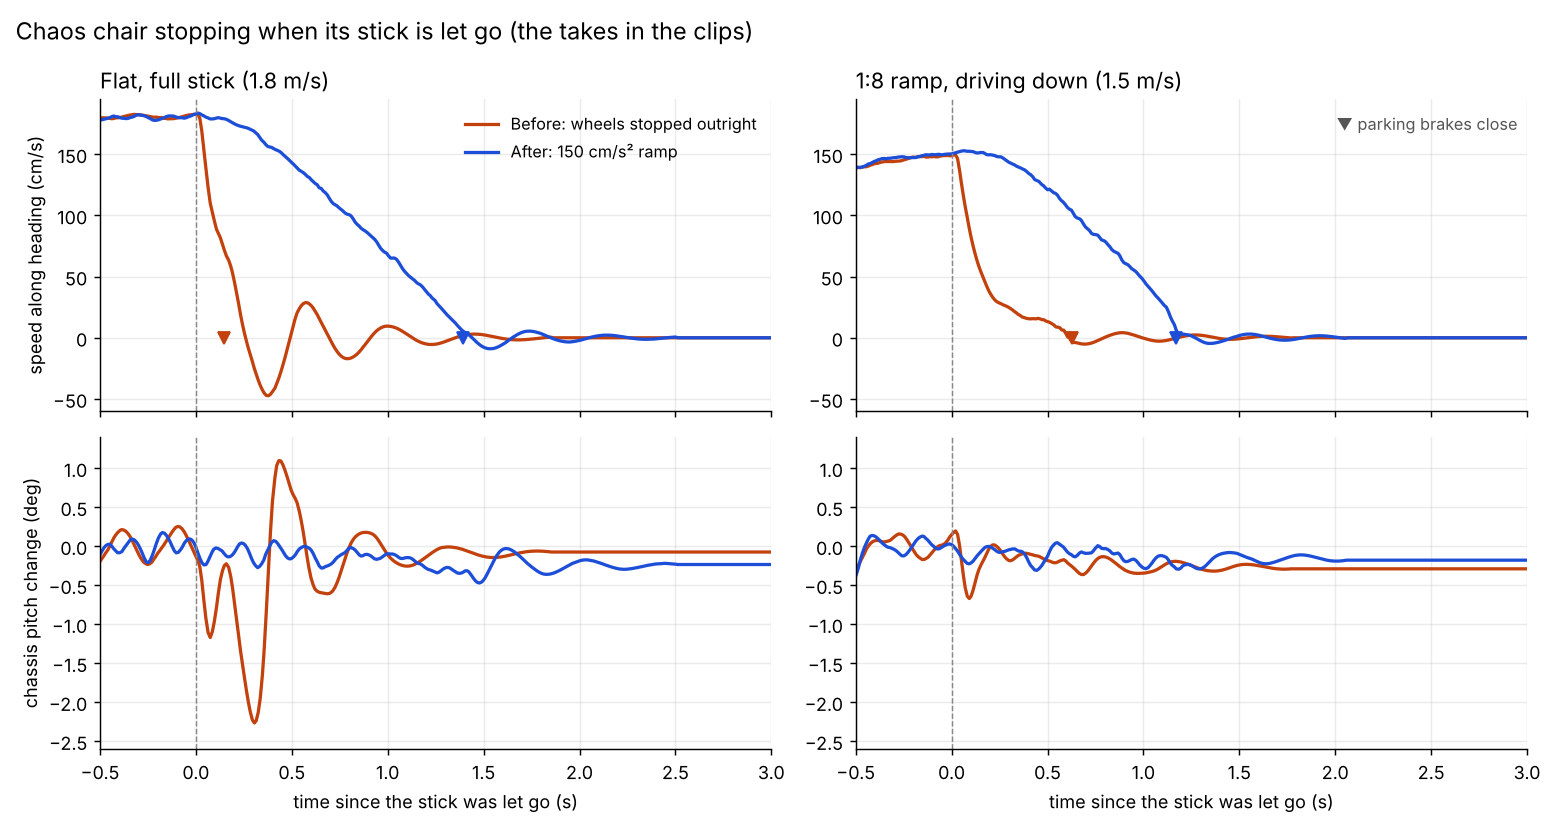
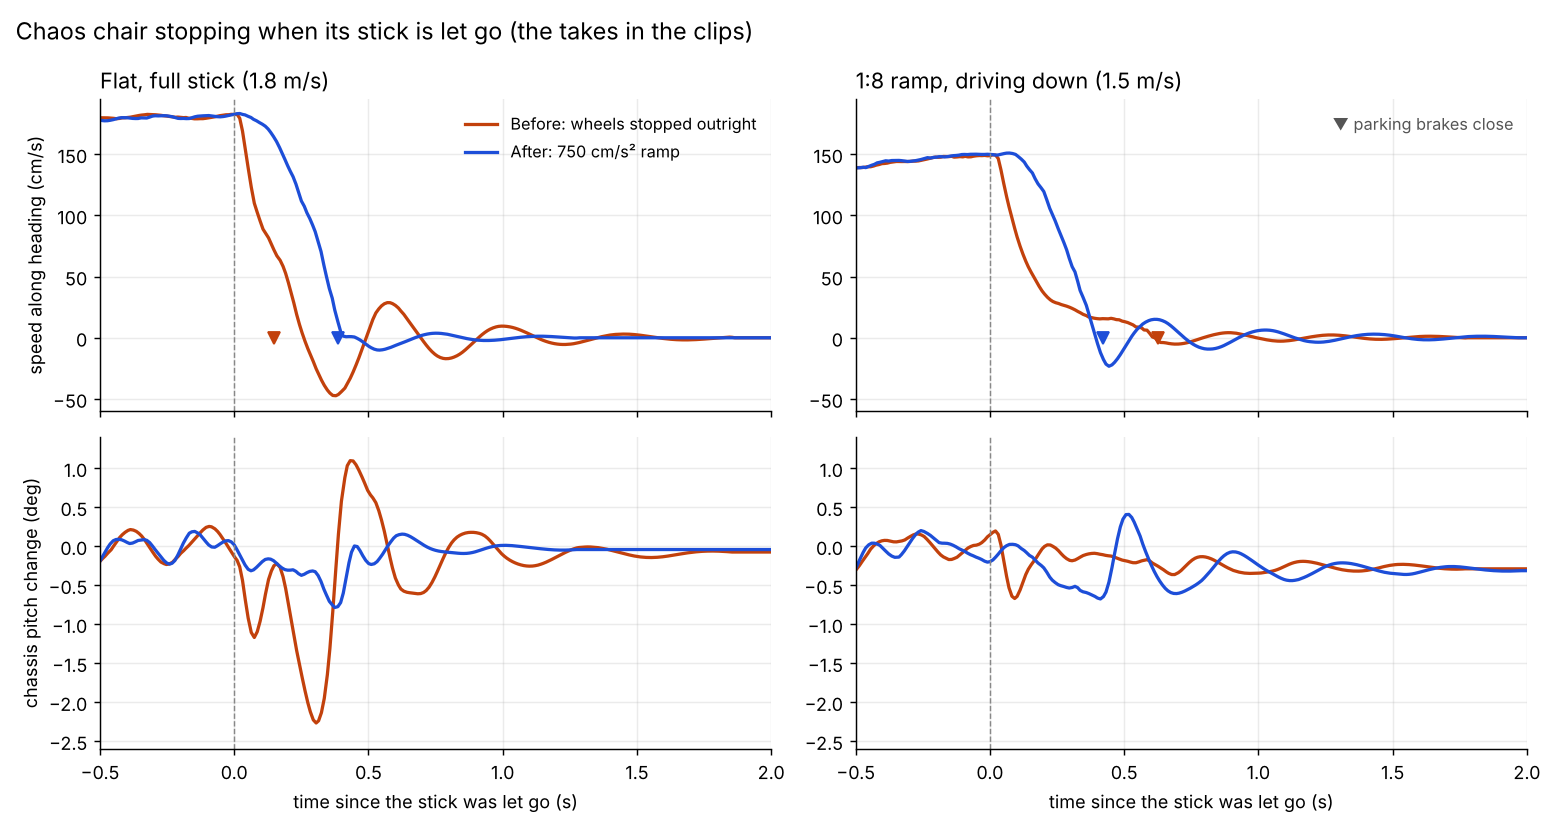
test(chaos_brake): set any controller property for a run; clips and chart at the 750 cm/s^2 default
run(props={"BrakeRampInSeconds": 0.1, ...}) sets any float property of the controller, by its C++
name, without an edit notification, as the deceleration already was. The "after" clips and the
speed/pitch chart are re-recorded at ramms-core#53's new defaults (750 cm/s^2 over 0.1 s).

Claude-Session: https://claude.ai/code/session_01SgnbqZ52G1jAo6g2kwYe2m

diff --git a/Scripts/pie_tests/base_component/chaos_brake.py b/Scripts/pie_tests/base_component/chaos_brake.py
@@ -109,19 +109,24 @@ def summarise(name, kind, speed, s):
             "tick_hz": round((len(t) - 1) / (t[-1] - t[0]), 1) if len(t) > 1 and t[-1] > t[0] else None}
 
 
-def _set_decel(dd, value):
-    """BrakeDeceleration on the chair's controller, without an edit notification: one reruns the
-    pawn's construction script mid-PIE, which drops its seated operator and replaces the
-    controller. Through Python where its wrapper knows the property, else the engine's `set`
-    command (every RammsDifferentialDriveController)."""
-    for prop in ("brake_deceleration", "BrakeDeceleration"):
+def _set_prop(dd, name, value):
+    """A float property of the chair's controller (its C++ name), without an edit notification:
+    one reruns the pawn's construction script mid-PIE, which drops its seated operator and
+    replaces the controller. Through Python where its wrapper knows the property, else the
+    engine's `set` command (every RammsDifferentialDriveController)."""
+    snake = "".join("_" + c.lower() if c.isupper() else c for c in name).lstrip("_")
+    for prop in (snake, name):
         try:
             dd.set_editor_property(prop, float(value), unreal.PropertyAccessChangeNotifyMode.NEVER)
             return "property"
         except Exception:  # noqa: BLE001 -- a wrapper generated before the property existed
             pass
-    unreal.SystemLibrary.execute_console_command(dd, "set RammsDifferentialDriveController BrakeDeceleration %g" % float(value))
+    unreal.SystemLibrary.execute_console_command(dd, "set RammsDifferentialDriveController %s %g" % (name, float(value)))
     return "console set"
+
+
+def _set_decel(dd, value):
+    return _set_prop(dd, "BrakeDeceleration", value)
 
 
 CAM_TAG = "ramms_brake_cam"
@@ -154,7 +159,7 @@ def _setup_capture(w):
     return sc, rt
 
 
-def run(cases=None, out=None, decel=None, frames=None, fps=FRAME_FPS, max_fps=None, on_done=None):
+def run(cases=None, out=None, decel=None, frames=None, fps=FRAME_FPS, max_fps=None, props=None, on_done=None):
     les = unreal.get_editor_subsystem(unreal.LevelEditorSubsystem)
     ues = unreal.get_editor_subsystem(unreal.UnrealEditorSubsystem)
     cases = (cases or getattr(unreal, "_ramms_brake_cases", "") or "flat100 flat50 down50").split()
@@ -255,6 +260,8 @@ def run(cases=None, out=None, decel=None, frames=None, fps=FRAME_FPS, max_fps=No
                 S["w"], S["p"] = cs_common.find_chaos_pawn()
                 S["dd"] = dd = S["p"].get_component_by_class(unreal.RammsDifferentialDriveController)
                 how = _set_decel(dd, decel) if decel is not None else None
+                for k, val in (props or {}).items():   # other controller settings, by C++ name
+                    _set_prop(dd, k, val)
                 if max_fps:
                     unreal.SystemLibrary.execute_console_command(w, "t.MaxFPS %d" % int(max_fps))
                 S["config"] = {k: (round(float(dd.get_editor_property(k)), 3) if dd and _has(dd, k) else None)
@@ -262,6 +269,8 @@ def run(cases=None, out=None, decel=None, frames=None, fps=FRAME_FPS, max_fps=No
                 S["config"]["control_mode"] = str(dd.get_editor_property("control_mode")) if dd else None
                 if decel is not None:
                     S["config"].update(brake_deceleration_set=float(decel), set_by=how)
+                if props:
+                    S["config"]["props_set"] = dict(props)
                 if frames:
                     S["sc"], S["rt"] = _setup_capture(w)
                 S["z_rest"] = S["p"].get_actor_location().z

diff --git a/Scripts/pie_tests/base_component/README.md b/Scripts/pie_tests/base_component/README.md
@@ -73,7 +73,7 @@ doesn't. `move_private_assets.py` is the one-shot migration that put them there.
   does not change the stop). Before (left) and after (right), at full stick on
   the flat, the same at quarter speed, and down the 1:8 ramp:
 
-  <img src="../../../doc/images/chaos_backend/brake_flat100_before_after.webp" width="820" alt="The Chaos chair let go at 1.8 m/s on the flat: on the left its wheels stop outright and it lurches and rocks, on the right it slows down a 150 cm/s² ramp">
+  <img src="../../../doc/images/chaos_backend/brake_flat100_before_after.webp" width="820" alt="The Chaos chair let go at 1.8 m/s on the flat: on the left its wheels stop outright and it lurches and rocks, on the right it slows down a 750 cm/s² ramp">
   <img src="../../../doc/images/chaos_backend/brake_flat100_before_after_slow.webp" width="820" alt="The same stop at quarter speed">
   <img src="../../../doc/images/chaos_backend/brake_down50_before_after.webp" width="820" alt="The chair let go halfway down the 1:8 ramp: stopped outright on the left, braked down the ramp on the right">
   <img src="../../../doc/images/chaos_backend/brake_speed_pitch.png" width="820" alt="Speed and chassis pitch against time for the same takes">
